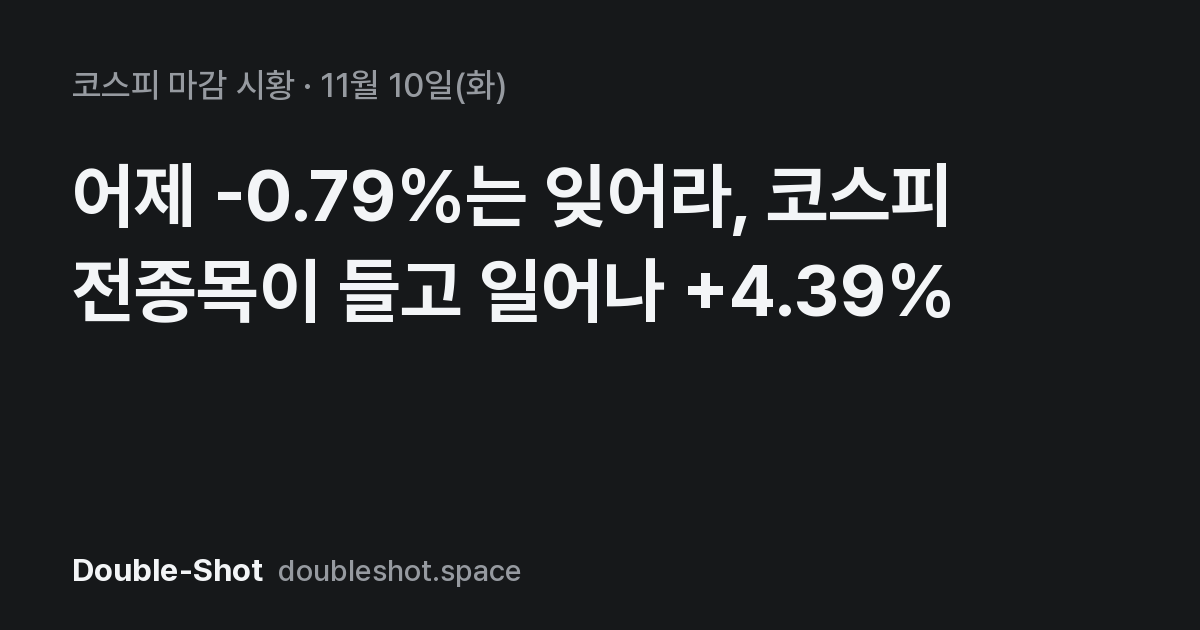
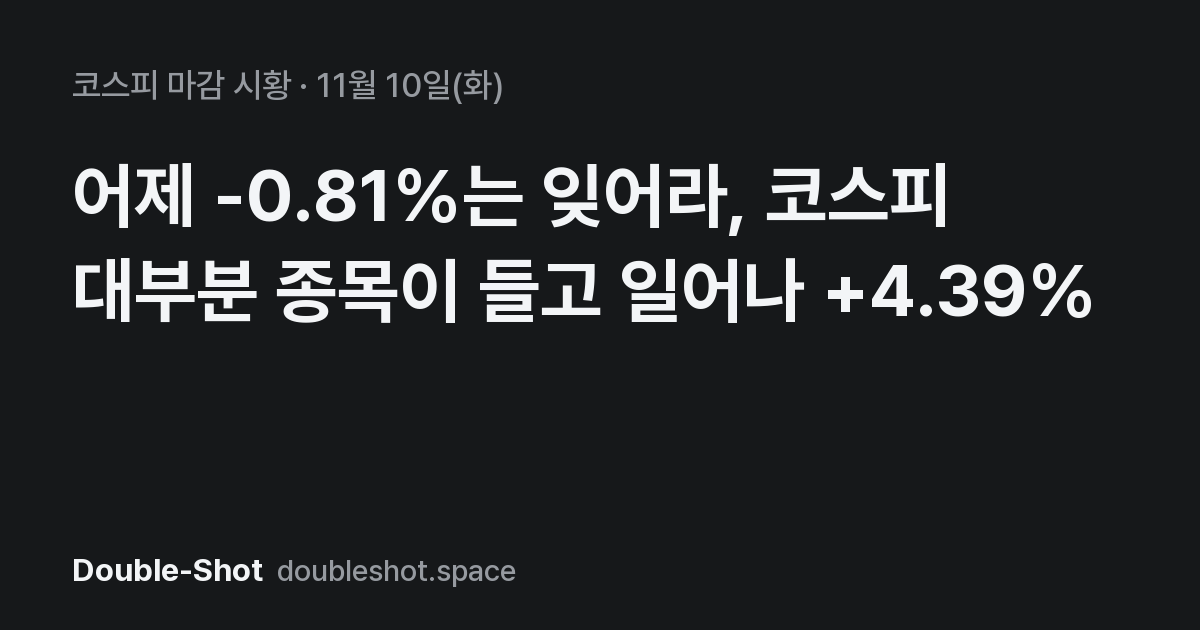
fix(발행본 정정): 11/9·11/10 마감 비교 카드 −0.81%·타이틀 '대부분 종목', 11/10 미국 맥도날드 이슈 제거, 10/26 수급 단위

diff --git a/web/briefings/2026-11-10/close/index.html b/web/briefings/2026-11-10/close/index.html
@@ -5,23 +5,23 @@
 <head>
 <meta charset="UTF-8">
 <meta name="viewport" content="width=device-width, initial-scale=1.0">
-<title>코스피 마감 시황 11월 10일 | 어제 -0.79%는 잊어라, 코스피 전종목이 들고 일어나 +4.39%</title>
+<title>코스피 마감 시황 11월 10일 | 어제 -0.81%는 잊어라, 코스피 대부분 종목이 들고 일어나 +4.39%</title>
 <meta name="naver-site-verification" content="d2ac1feb412642dd359d2c5db626a1dffeaf8110" />
 <link rel="alternate" type="application/rss+xml" title="Double-Shot 브리핑" href="https://doubleshot.space/briefings/rss.xml">
 
-<meta name="description" content="전력기기·2차전지·방산·반도체까지 전 섹터가 동시에 뛰며 코스피가 5239를 찍었어요.">
+<meta name="description" content="전력기기·2차전지·방산·반도체까지 대부분 섹터가 동시에 뛰며 코스피가 5239를 찍었어요.">
 <meta name="robots" content="index, follow, max-image-preview:large, max-snippet:-1">
 <meta property="og:type" content="website">
 <meta property="og:site_name" content="Double-Shot">
 <meta property="og:locale" content="ko_KR">
 <meta property="og:url" content="https://doubleshot.space/briefings/2026-11-10/close/">
-<meta property="og:title" content="코스피 마감 시황 11월 10일 | 어제 -0.79%는 잊어라, 코스피 전종목이 들고 일어나 +4.39%">
-<meta property="og:description" content="전력기기·2차전지·방산·반도체까지 전 섹터가 동시에 뛰며 코스피가 5239를 찍었어요.">
+<meta property="og:title" content="코스피 마감 시황 11월 10일 | 어제 -0.81%는 잊어라, 코스피 대부분 종목이 들고 일어나 +4.39%">
+<meta property="og:description" content="전력기기·2차전지·방산·반도체까지 대부분 섹터가 동시에 뛰며 코스피가 5239를 찍었어요.">
 
 <meta property="og:image" content="https://doubleshot.space/briefings/2026-11-10/close/og.png">
 <meta name="twitter:card" content="summary_large_image">
-<meta name="twitter:title" content="코스피 마감 시황 11월 10일 | 어제 -0.79%는 잊어라, 코스피 전종목이 들고 일어나 +4.39%">
-<meta name="twitter:description" content="전력기기·2차전지·방산·반도체까지 전 섹터가 동시에 뛰며 코스피가 5239를 찍었어요.">
+<meta name="twitter:title" content="코스피 마감 시황 11월 10일 | 어제 -0.81%는 잊어라, 코스피 대부분 종목이 들고 일어나 +4.39%">
+<meta name="twitter:description" content="전력기기·2차전지·방산·반도체까지 대부분 섹터가 동시에 뛰며 코스피가 5239를 찍었어요.">
 <meta name="twitter:image" content="https://doubleshot.space/briefings/2026-11-10/close/og.png">
 
 <link href="https://cdn.jsdelivr.net/gh/orioncactus/pretendard@v1.3.9/dist/web/variable/pretendardvariable-dynamic-subset.min.css" rel="stylesheet">
@@ -94,7 +94,7 @@
       <div class="vsl-h"><span>어제와 비교</span><span>11/9 vs 11/10 · 15:30 확정</span></div>
       <div class="vsl-t up">어제와 달리 올랐어요</div>
       <div class="vsl-g">
-        <div class="vsl-c"><div class="l">코스피</div><div class="v up">+4.39%</div><div class="y">어제 -0.79%</div></div>
+        <div class="vsl-c"><div class="l">코스피</div><div class="v up">+4.39%</div><div class="y">어제 -0.81%</div></div>
         <div class="vsl-c"><div class="l">거래량</div><div class="v ">+4.0%</div><div class="y">2억 4,098만주</div></div>
         <div class="vsl-c"><div class="l">진폭</div><div class="v ">2.52%</div><div class="y">어제 3.60%</div></div>
         
@@ -114,8 +114,8 @@ window.addEventListener('resize', function () { drawCloseChart('intraday-chart',
               
                 
 <div class="section-card">
-  <div class="reason-title-bar">어제 -0.79%는 잊어라, 코스피 전종목이 들고 일어나 +4.39%</div>
-  <p class="close-dek">전력기기·2차전지·방산·반도체까지 전 섹터가 동시에 뛰며 코스피가 <b>5239</b>를 찍었어요.</p>
+  <div class="reason-title-bar">어제 -0.81%는 잊어라, 코스피 대부분 종목이 들고 일어나 +4.39%</div>
+  <p class="close-dek">전력기기·2차전지·방산·반도체까지 대부분 섹터가 동시에 뛰며 코스피가 <b>5239</b>를 찍었어요.</p>
   
   <ul class="brief3">
     <li><span class="k">원인</span><span>외국인 <b>+3641억</b>, 기관 <b>+4889억</b> 동반 순매수가 급반등을 이끌었어요.</span></li>
@@ -362,12 +362,6 @@ window.addEventListener('resize', function () { drawCloseChart('intraday-chart',
       <a class="rpt-src" href="https://m.stock.naver.com/research/market/38109" target="_blank" rel="noopener">원문 보기 →</a>
     </div>
     
-    <div class="rpt-item">
-      <div class="rpt-head"><span class="rpt-tag">시황</span><span class="rpt-firm">유진투자증권</span></div>
-      <div class="rpt-title">Eugene Daily Snapshot - 코스피 5천 가까스로 사수</div>
-      <div class="rpt-summary">간밤 뉴욕 증시는 유가 하락과 AI 관련 매도세 되돌림으로 강세를 보였어요. 국내 증시는 외국인 매도세와 2차전지, 바이오 업종의 약세로 하락하며 5000선을 간신히 지켰어요.</div>
-      <a class="rpt-src" href="https://m.stock.naver.com/research/market/38098" target="_blank" rel="noopener">원문 보기 →</a>
-    </div>
     
   </div>
 </div>

diff --git a/web/stocks/index.html b/web/stocks/index.html
@@ -153,7 +153,7 @@
       <ol class="rb-list">
       <!-- RECENT_BRIEFINGS:START -->
       <li class="rb-item feat"><a href="/briefings/2026-11-10/us/"><div class="rb-meta">11/10(화) · 미국 시장</div><div class="rb-h">엔비디아만 빠지고 반도체는 웃었다, 폭락 다음날의 기묘한 반등</div><div class="rb-d">직전 정규장에서 <b>엔비디아</b>만 4%대 급락했는데 나머지 반도체는 7% 넘게 뛰었어요. 오늘 밤 10시 30분 <b>CPI</b>가 이 반등이 진짜인지 가려줄 거예요.</div></a></li>
-      <li class="rb-item"><a href="/briefings/2026-11-10/close/"><div class="rb-meta">11/10(화) · 코스피 마감</div><div class="rb-h">어제 -0.79%는 잊어라, 코스피 전종목이 들고 일어나 +4.39%</div></a></li>
+      <li class="rb-item"><a href="/briefings/2026-11-10/close/"><div class="rb-meta">11/10(화) · 코스피 마감</div><div class="rb-h">어제 -0.81%는 잊어라, 코스피 대부분 종목이 들고 일어나 +4.39%</div></a></li>
       <li class="rb-item"><a href="/briefings/2026-11-10/kospi/"><div class="rb-meta">11/10(화) · 코스피 예측</div><div class="rb-h">목요일 패닉은 끝났다, 간밤 나스닥 +2.74%·SOX +6.85%로 되갚음</div></a></li>
       <li class="rb-item"><a href="/briefings/2026-11-09/us/"><div class="rb-meta">11/9(월) · 미국 시장</div><div class="rb-h">황 CEO 스캔들에 엔비디아만 홀로 흔들린다</div></a></li>
       <li class="rb-item"><a href="/briefings/2026-11-09/close/"><div class="rb-meta">11/9(월) · 코스피 마감</div><div class="rb-h">2차전지 -8.59%, 삼성SDI 두 자릿수 급락에 코스피 5000 턱걸이</div></a></li>

diff --git a/web/briefings/2026-11-10/us/index.html b/web/briefings/2026-11-10/us/index.html
@@ -118,21 +118,6 @@
       
     </div>
     
-    <div class="issue-card">
-      <div class="issue-card__title">맥도날드 실적 호조로 소비재 안도감 확산</div>
-      <div class="issue-card__body">패스트푸드 대장주 실적 호조가 소비 둔화 우려를 일부 누그러뜨리면서 경기소비재 전반에 숨통을 틔워줬어요.</div>
-      
-      <div class="issue-card__impact">
-        
-        
-        <div class="imp-side up">
-          <span class="imp-arrow">▲</span><span class="imp-label">소비재·외식</span>
-          <span class="imp-tickers"><span class="imp-tk">MCD</span></span>
-        </div>
-        
-      </div>
-      
-    </div>
     
     <div class="issue-card">
       <div class="issue-card__title">오늘 밤 CPI 발표 — 어제 반등이 진짜인지 가늠할 분수령</div>

diff --git a/web/briefings/2026-11-09/close/index.html b/web/briefings/2026-11-09/close/index.html
@@ -94,7 +94,7 @@
       <div class="vsl-h"><span>어제와 비교</span><span>11/6 vs 11/9 · 15:30 확정</span></div>
       <div class="vsl-t dn">내렸지만 지난 금요일보다 낙폭이 작았어요</div>
       <div class="vsl-g">
-        <div class="vsl-c"><div class="l">코스피</div><div class="v dn">-0.79%</div><div class="y">지난 금요일 -6.02%</div></div>
+        <div class="vsl-c"><div class="l">코스피</div><div class="v dn">-0.81%</div><div class="y">지난 금요일 -6.02%</div></div>
         <div class="vsl-c"><div class="l">거래량</div><div class="v ">-22.0%</div><div class="y">2억 3,170만주</div></div>
         <div class="vsl-c"><div class="l">진폭</div><div class="v ">3.60%</div><div class="y">지난 금요일 6.65%</div></div>
         

diff --git a/web/briefings/2026-10-26/kospi/index.html b/web/briefings/2026-10-26/kospi/index.html
@@ -73,7 +73,7 @@
         
         <li><span>메타의 잉여현금흐름 적자 전환 우려로 미국 기술주·반도체주가 급락하면서 지난 금요일 코스피도 그 여파를 받았어요.</span></li>
         
-        <li><span>외국인은 코스피에서 순매도(<b>-9,934백만원</b>)했지만 기관이 순매수(<b>+8,726백만원</b>)로 맞서며 낙폭을 방어했어요.</span></li>
+        <li><span>외국인은 코스피에서 순매도(<b>-9,934억원</b>)했지만 기관이 순매수(<b>+8,726억원</b>)로 맞서며 낙폭을 방어했어요.</span></li>
         
       </ul>
     </div>

diff --git a/web/briefings/index.html b/web/briefings/index.html
@@ -84,7 +84,7 @@
         </a>
         
         <a class="arch-item" href="/briefings/2026-11-10/close/">
-          <span class="arch-item__headline">어제 -0.79%는 잊어라, 코스피 전종목이 들고 일어나 +4.39%</span>
+          <span class="arch-item__headline">어제 -0.81%는 잊어라, 코스피 대부분 종목이 들고 일어나 +4.39%</span>
           
           <span class="arch-item__label">코스피 마감</span>
         </a>
